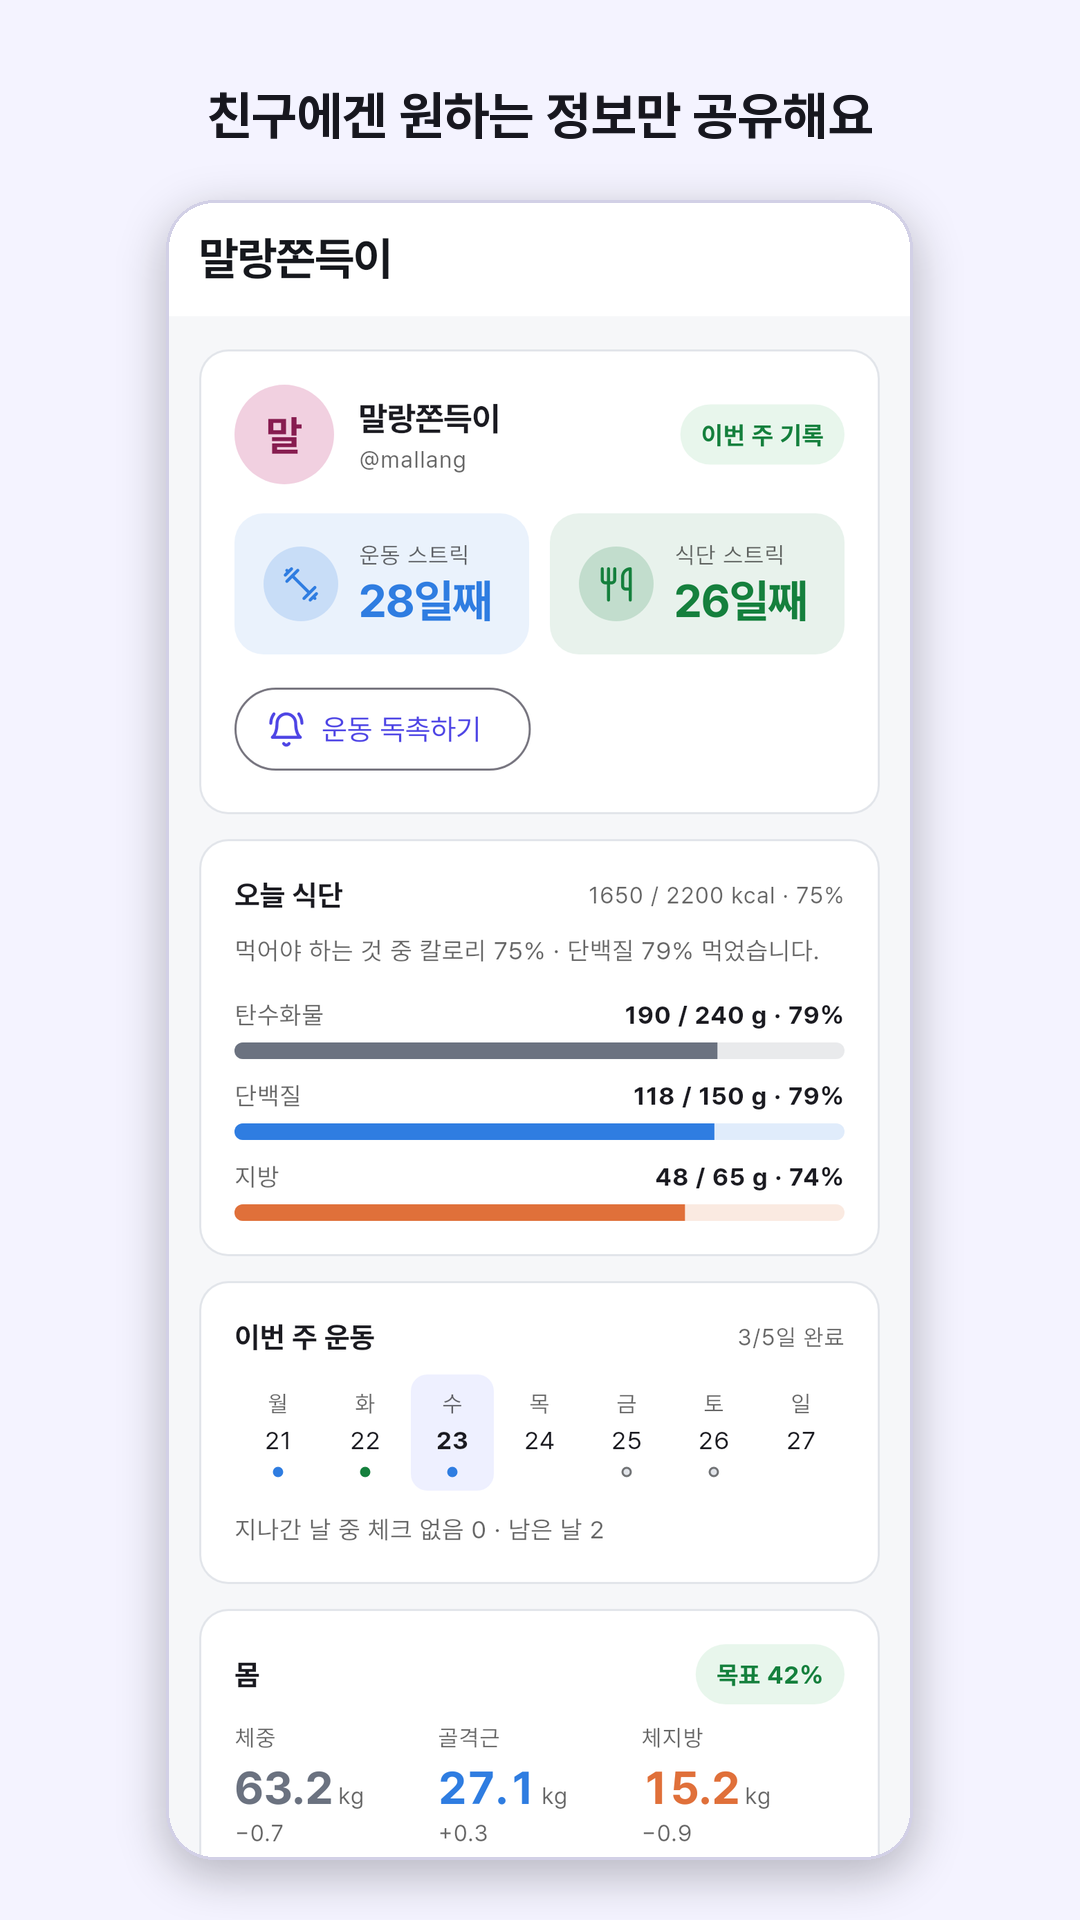
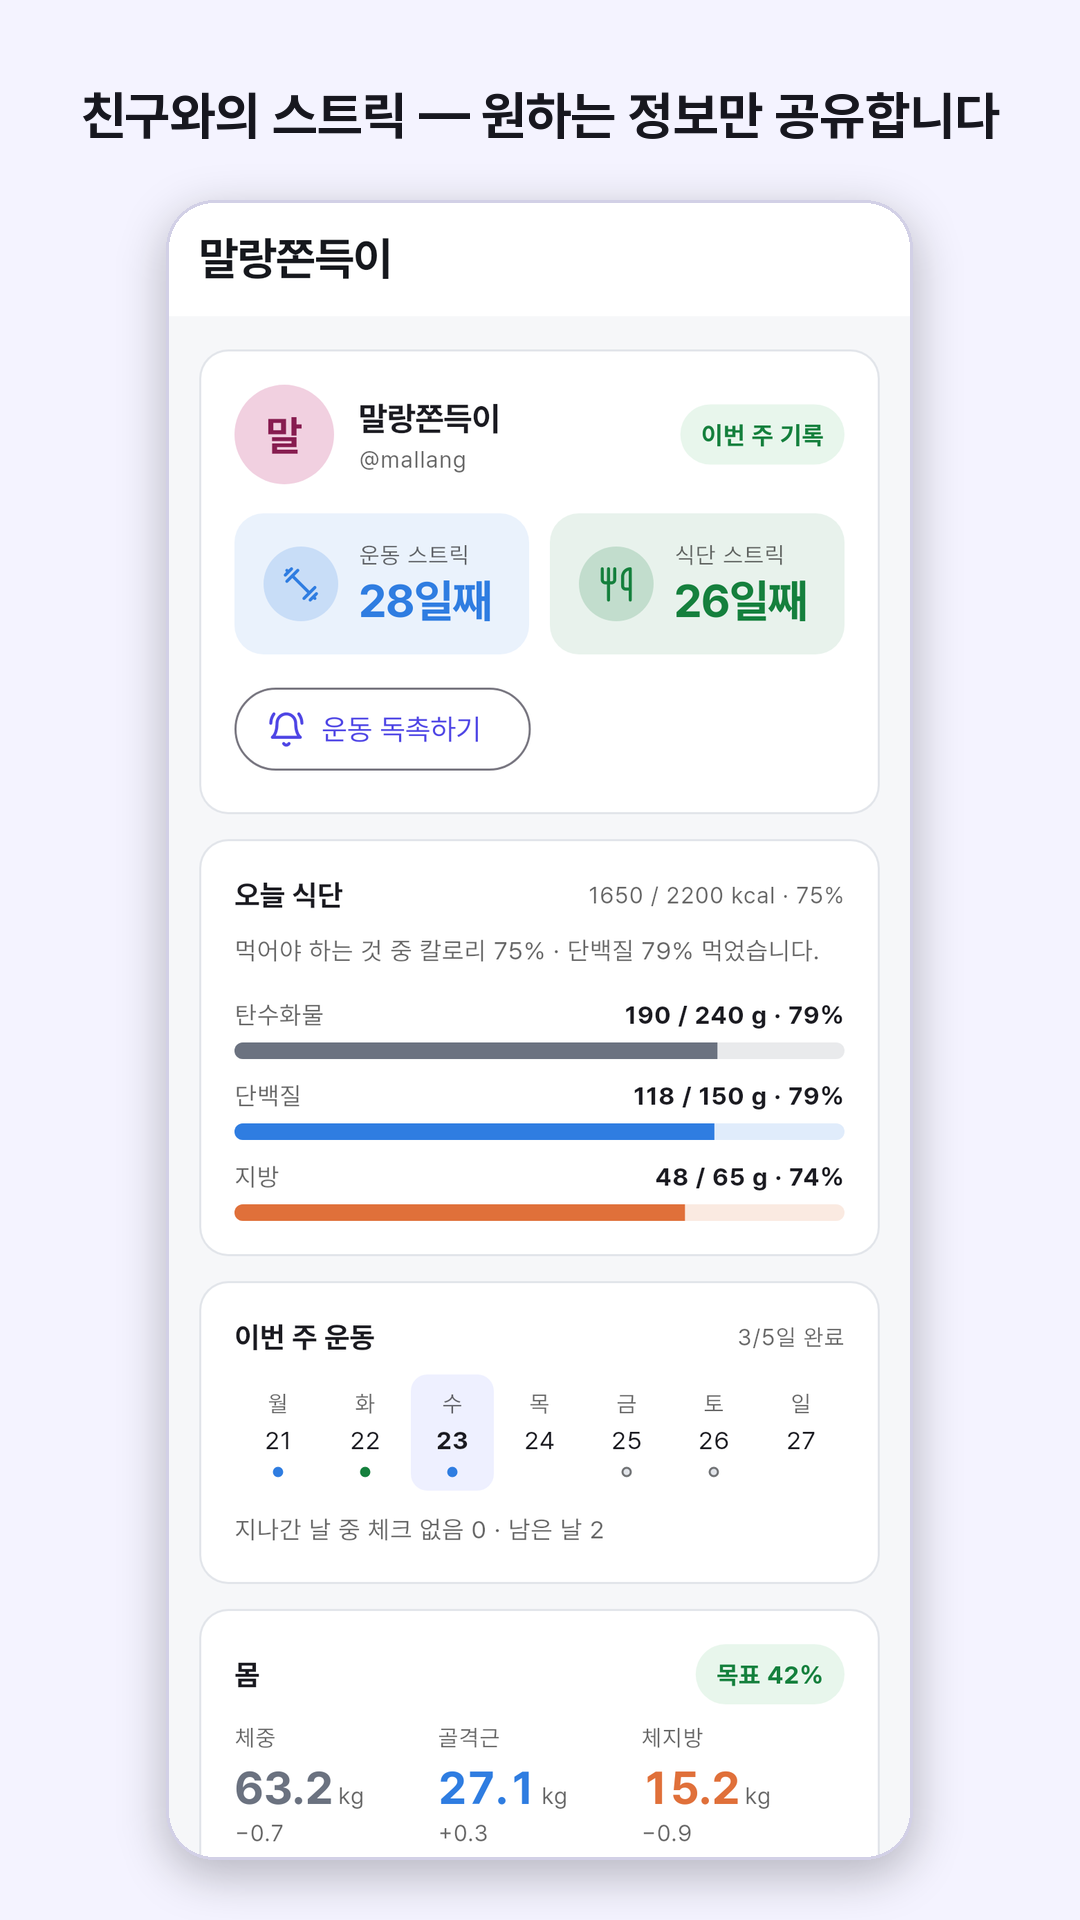
친구 상세 스크린샷 설명: 「친구와의 스트릭 — 원하는 정보만 공유합니다」 · 긴 설명은 폭에 맞게 줄임
Claude-Session: https://claude.ai/code/session_01VUx1QD5iR4br1KmNcSfk2v

Changed region(s): [[0.0611, 0.0312, 0.9167, 0.0938]]

diff --git a/play/make-shots.py b/play/make-shots.py
@@ -33,7 +33,7 @@ CAPTIONS = [
     ('food',     '오늘 먹은 것과 남은 탄단지'),
     ('progress', '체중 · 골격근 · 체지방 추이'),
     ('social',   '친구와 서로 응원합니다'),
-    ('friend',   '친구에겐 원하는 정보만 공유해요'),
+    ('friend',   '친구와의 스트릭 — 원하는 정보만 공유합니다'),
 ]
 
 def caption_for(name):
@@ -73,9 +73,15 @@ def convert(src, dst):
                                              outline=(210, 208, 230), width=3)
     if cap:
         d = ImageDraw.Draw(canvas)
-        f = ImageFont.truetype(BOLD, 52)
-        tw = d.textlength(cap, font=f)
-        d.text(((W - tw) / 2, (BAND - 52) / 2 + 10), cap, font=f, fill=INK)
+        # 긴 설명은 폭에 맞을 때까지 글자를 줄입니다 — 잘리는 것보다 낫습니다.
+        size = 52
+        while True:
+            f = ImageFont.truetype(BOLD, size)
+            tw = d.textlength(cap, font=f)
+            if tw <= W - 80 or size <= 34:
+                break
+            size -= 2
+        d.text(((W - tw) / 2, (BAND - size) / 2 + 10), cap, font=f, fill=INK)
     canvas.save(dst, optimize=True)
 
 def main():
